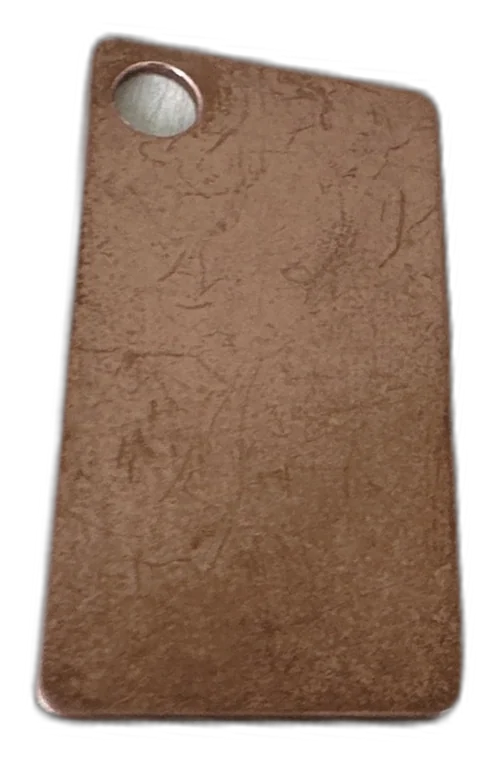
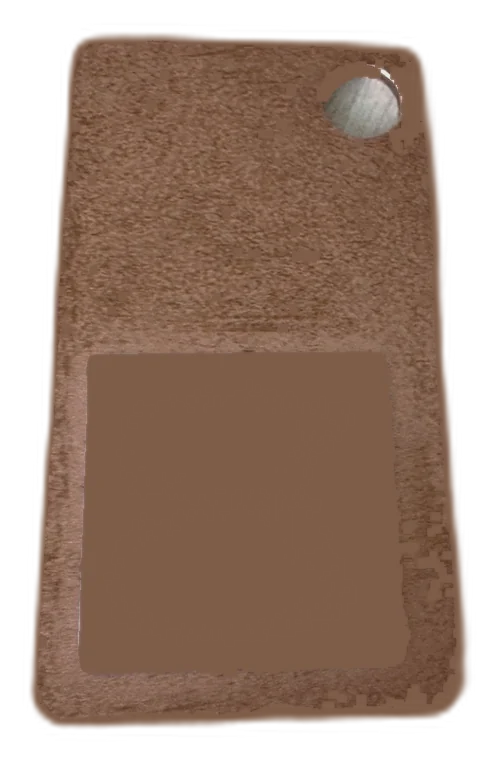
3D-Anhaenger verbessert + Showcase zurueck auf Grid mit Video & neuen Produktbildern
- 3D: Rueckseite aus Vorderseite abgeleitet (gleiche Silhouette -> nur EIN Loch),
  deutlich duenner (HALF 2.5, 6 Ebenen), saubere Kupferkante statt dunkler Foto-Kante,
  ruhigeres Schweben
- Showcase: zurueck auf das ruhigere Grid-Design
- Bunte Lifestyle-Fotos ersetzt durch neue Studio-Produktbilder (Front/Winkel/Rueckseite),
  freigestellt und auf einheitlichen Creme/Kupfer-Verlauf gesetzt
- Produktvideo passend als erste Kachel eingebunden (autoplay-Loop, Clip-Badge)
- ungenutzte Lifestyle-Bilder entfernt

diff --git a/css/style.css b/css/style.css
@@ -829,8 +829,8 @@ ul { list-style: none; }
   position: absolute; inset: 0; width: 100%; height: 100%;
   object-fit: contain; -webkit-user-drag: none; pointer-events: none;
 }
-.pendant3d__face { backface-visibility: hidden; filter: drop-shadow(0 20px 32px rgba(74,36,6,.45)); }
-.pendant3d__edge { backface-visibility: visible; filter: brightness(.34) saturate(1.5); }
+.pendant3d__face { backface-visibility: hidden; filter: drop-shadow(0 20px 32px rgba(74,36,6,.4)); }
+.pendant3d__edge { backface-visibility: visible; }
 .pendant3d__floor {
   position: absolute; bottom: 46px; left: 50%; transform: translateX(-50%);
   width: 210px; height: 34px; border-radius: 50%; z-index: 0;
@@ -842,45 +842,44 @@ ul { list-style: none; }
 }
 
 /* ════════════════════════════════════
-   IMPRESSIONEN – spielerische Polaroid-Collage
+   IMPRESSIONEN – Motion-Showcase (Grid)
    ════════════════════════════════════ */
 .showcase { margin-top: var(--space-16); }
 .showcase .page-head { margin-bottom: 0; }
-
-.collage { margin-top: var(--space-8); column-count: 4; column-gap: var(--space-5); }
-.collage__item {
-  position: relative; break-inside: avoid; margin-bottom: var(--space-6);
-  background: #fff; border: 1px solid var(--border); border-radius: var(--radius-md);
-  padding: 10px 10px 0;            /* Polaroid-Rahmen */
+.showcase__grid {
+  display: grid; grid-template-columns: repeat(4, 1fr);
+  gap: var(--space-5); margin-top: var(--space-8);
+}
+.showcase__card {
+  position: relative; border-radius: var(--radius-lg); overflow: hidden;
+  background: var(--night-800); border: 1px solid var(--border);
   box-shadow: var(--shadow-md); cursor: pointer;
   transform-style: preserve-3d; will-change: transform;
-  animation: showcaseFloat 6.5s ease-in-out infinite;
+  animation: showcaseFloat 6s ease-in-out infinite;
   transition: box-shadow var(--dur-std) var(--ease), border-color var(--dur-std) var(--ease);
 }
-/* spielerische Ruhe-Neigung + versetztes Schweben */
-.collage__item:nth-child(1) { transform: rotate(-3deg);   animation-delay: 0s;    }
-.collage__item:nth-child(2) { transform: rotate(2.5deg);  animation-delay: -1.3s; }
-.collage__item:nth-child(3) { transform: rotate(-1.5deg); animation-delay: -2.6s; }
-.collage__item:nth-child(4) { transform: rotate(3deg);    animation-delay: -3.9s; }
-.collage__item:nth-child(5) { transform: rotate(-2deg);   animation-delay: -5.2s; }
-.collage__item:hover { box-shadow: 0 26px 60px var(--glow-copper-lg); border-color: var(--copper-400); z-index: 5; }
+.showcase__card:nth-child(2) { animation-delay: -1.5s; }
+.showcase__card:nth-child(3) { animation-delay: -3s; }
+.showcase__card:nth-child(4) { animation-delay: -4.5s; }
+.showcase__card:hover { box-shadow: 0 22px 55px var(--glow-copper-lg); border-color: var(--copper-400); }
 @keyframes showcaseFloat { 0%, 100% { translate: 0 0; } 50% { translate: 0 -9px; } }
 
-.collage__media { position: relative; overflow: hidden; border-radius: calc(var(--radius-md) - 4px); aspect-ratio: 3 / 4; background: var(--night-800); }
-.collage__item--video .collage__media { aspect-ratio: 9 / 16; }
-.collage__media img, .collage__video { width: 100%; height: 100%; object-fit: cover; display: block; }
-.collage__media img { animation: showcaseKen 22s ease-in-out infinite alternate; }
+.showcase__media { position: relative; aspect-ratio: 3 / 4; overflow: hidden; }
+.showcase__media img, .showcase__media video {
+  width: 100%; height: 100%; object-fit: cover; display: block;
+}
+.showcase__media img { animation: showcaseKen 20s ease-in-out infinite alternate; }
 @keyframes showcaseKen {
   from { transform: scale(1.04) translate(0, 0); }
   to   { transform: scale(1.14) translate(2%, -3%); }
 }
 /* Cursor-folgender Kupfer-Glow */
-.collage__media::after {
-  content: ""; position: absolute; inset: 0; pointer-events: none; opacity: 0; z-index: 2;
+.showcase__media::after {
+  content: ""; position: absolute; inset: 0; pointer-events: none; opacity: 0;
   background: radial-gradient(circle at var(--mx, 50%) var(--my, 50%), var(--glow-copper-lg), transparent 55%);
   transition: opacity var(--dur-std) var(--ease);
 }
-.collage__item:hover .collage__media::after { opacity: 1; }
+.showcase__card:hover .showcase__media::after { opacity: 1; }
 
 /* Glanz-Sweep */
 .showcase__sheen {
@@ -888,45 +887,35 @@ ul { list-style: none; }
   background: linear-gradient(115deg, transparent 30%, rgba(255,255,255,.28) 48%, transparent 66%);
   transform: translateX(-130%); transition: transform .85s var(--ease);
 }
-.collage__item:hover .showcase__sheen { transform: translateX(130%); }
+.showcase__card:hover .showcase__sheen { transform: translateX(130%); }
 
-.collage__cap { padding: var(--space-3) var(--space-2) var(--space-4); text-align: center; }
-.collage__cap-title { display: block; font-family: var(--font-display); font-weight: 800; font-size: .92rem; color: var(--fg); }
-.collage__cap-sub { font-size: .74rem; color: var(--fg-muted); }
-
-/* Live-Badge (Video) */
-.collage__badge {
+/* Video-Badge */
+.showcase__badge {
   position: absolute; top: 10px; left: 10px; z-index: 3;
   display: inline-flex; align-items: center; gap: 6px;
   background: rgba(14,8,6,.62); color: #fff; font-size: .68rem; font-weight: 700;
   letter-spacing: .1em; text-transform: uppercase; padding: 4px 10px;
   border-radius: var(--radius-pill); backdrop-filter: blur(4px);
 }
-.collage__dot { width: 7px; height: 7px; border-radius: 50%; background: var(--ember); animation: collagePulse 1.6s infinite; }
+.showcase__dot { width: 7px; height: 7px; border-radius: 50%; background: var(--ember); animation: collagePulse 1.6s infinite; }
 @keyframes collagePulse {
   0%   { box-shadow: 0 0 0 0 rgba(225,90,51,.6); }
   70%  { box-shadow: 0 0 0 8px rgba(225,90,51,0); }
   100% { box-shadow: 0 0 0 0 rgba(225,90,51,0); }
 }
 
-/* Washi-Tape */
-.collage__tape {
-  position: absolute; top: -9px; left: 50%; z-index: 4;
-  transform: translateX(-50%) rotate(-4deg);
-  width: 88px; height: 24px;
-  background: repeating-linear-gradient(135deg, rgba(224,116,26,.5) 0 8px, rgba(240,146,107,.42) 8px 16px);
-  border: 1px solid rgba(255,255,255,.22); box-shadow: var(--shadow-sm);
+.showcase__cap {
+  position: absolute; left: 0; right: 0; bottom: 0; z-index: 2;
+  display: flex; flex-direction: column; gap: 2px;
+  padding: var(--space-8) var(--space-4) var(--space-4);
+  background: linear-gradient(to top, rgba(14,8,6,.88), rgba(14,8,6,.35) 60%, transparent);
+  color: #fff;
+  transform: translateY(10px); opacity: .9;
+  transition: transform var(--dur-std) var(--ease), opacity var(--dur-std) var(--ease);
 }
-
-/* Sticker-Pille */
-.collage__sticker {
-  position: absolute; right: -6px; bottom: 64px; z-index: 4;
-  transform: rotate(-6deg);
-  background: var(--primary); color: #fff; font-weight: 800; font-size: .72rem;
-  letter-spacing: .03em; padding: 5px 12px; border-radius: var(--radius-pill);
-  box-shadow: var(--shadow-md);
-}
-.collage__sticker--alt { background: var(--ink-800); color: var(--copper-200); }
+.showcase__card:hover .showcase__cap { transform: translateY(0); opacity: 1; }
+.showcase__cap-title { font-family: var(--font-display); font-weight: 800; font-size: 1rem; }
+.showcase__cap-sub { font-size: .8rem; color: var(--copper-200); }
 
 /* ════════════════════════════════════
    GALERIE – Flip Cards mit Lucide
@@ -1474,7 +1463,7 @@ ul { list-style: none; }
 
   .produkt-grid { grid-template-columns: 1fr; gap: var(--space-8); }
   .chip-spec__grid { grid-template-columns: 1fr 1fr; }
-  .collage { column-count: 3; }
+  .showcase__grid { grid-template-columns: 1fr 1fr; }
 
   .galerie-grid { grid-template-columns: 1fr 1fr; }
   .socials-grid { grid-template-columns: 1fr; max-width: 380px; margin: 0 auto; }
@@ -1494,8 +1483,7 @@ ul { list-style: none; }
   .orgA__dept:nth-child(n) { margin-bottom: 0; }
   .orgA__members { grid-template-columns: 1fr; }
 
-  .collage { column-count: 2; column-gap: var(--space-4); }
-  .collage__sticker { bottom: 52px; }
+  .showcase__grid { gap: var(--space-4); }
 
   .pendant3d { min-height: 420px; }
   .pendant3d__spin { width: 248px; height: 380px; }

diff --git a/index.html b/index.html
@@ -340,72 +340,56 @@
           </div>
         </div>
 
-        <!-- Impressionen – spielerische Collage -->
+        <!-- Impressionen – Motion-Showcase -->
         <div class="showcase">
           <div class="page-head">
             <p class="overline">Impressionen</p>
             <h2>Dein Anhänger im echten Leben.</h2>
-            <p class="page-head__sub">Echtes Kupfer, echte Momente. Tipp rein, schau zu, dreh durch.</p>
+            <p class="page-head__sub">Echtes Kupfer, echte Momente. Beweg die Maus über die Bilder.</p>
           </div>
-          <div class="collage">
-            <figure class="collage__item collage__item--video reveal" data-tilt>
-              <span class="collage__tape" aria-hidden="true"></span>
-              <div class="collage__media">
-                <video class="collage__video" autoplay muted loop playsinline preload="metadata"
+          <div class="showcase__grid">
+            <figure class="showcase__card reveal" data-tilt>
+              <div class="showcase__media">
+                <video class="showcase__video" autoplay muted loop playsinline preload="metadata"
                        poster="assets/produkt-clip-poster.jpg">
                   <source src="assets/produkt-clip.mp4" type="video/mp4" />
                 </video>
-                <span class="collage__badge"><span class="collage__dot"></span> Clip</span>
+                <span class="showcase__badge"><span class="showcase__dot"></span> Clip</span>
                 <span class="showcase__sheen" aria-hidden="true"></span>
               </div>
-              <figcaption class="collage__cap">
-                <span class="collage__cap-title">Frisch ausgepackt</span>
-                <span class="collage__cap-sub">Anhänger &amp; Beutel in Bewegung</span>
+              <figcaption class="showcase__cap">
+                <span class="showcase__cap-title">Frisch ausgepackt</span>
+                <span class="showcase__cap-sub">Anhänger &amp; Beutel in Bewegung</span>
               </figcaption>
             </figure>
-
-            <figure class="collage__item reveal" data-tilt>
-              <div class="collage__media">
-                <img src="assets/produkt-pouch.jpg" alt="Kupfer-Anhänger mit NFCunnect-Stoffbeutel" loading="lazy" />
+            <figure class="showcase__card reveal" data-tilt>
+              <div class="showcase__media">
+                <img src="assets/show-front.webp" alt="NFCunnect Kupfer-Anhänger, Vorderseite mit NFC-Chip" loading="lazy" />
                 <span class="showcase__sheen" aria-hidden="true"></span>
               </div>
-              <span class="collage__sticker">Geschenkfertig</span>
-              <figcaption class="collage__cap">
-                <span class="collage__cap-title">Bereit zum Verschenken</span>
+              <figcaption class="showcase__cap">
+                <span class="showcase__cap-title">Dein smarter Begleiter</span>
+                <span class="showcase__cap-sub">Vorderseite mit NFC-Chip</span>
               </figcaption>
             </figure>
-
-            <figure class="collage__item reveal" data-tilt>
-              <span class="collage__tape" aria-hidden="true"></span>
-              <div class="collage__media">
-                <img src="assets/produkt-plant.jpg" alt="Kupfer-Anhänger an einer Pflanze" loading="lazy" />
+            <figure class="showcase__card reveal" data-tilt>
+              <div class="showcase__media">
+                <img src="assets/show-angle.webp" alt="Kupfer-Anhänger im Dreiviertel-Winkel" loading="lazy" />
                 <span class="showcase__sheen" aria-hidden="true"></span>
               </div>
-              <figcaption class="collage__cap">
-                <span class="collage__cap-title">Immer dabei</span>
+              <figcaption class="showcase__cap">
+                <span class="showcase__cap-title">Echtes Kupfer</span>
+                <span class="showcase__cap-sub">Von jeder Seite ein Hingucker</span>
               </figcaption>
             </figure>
-
-            <figure class="collage__item reveal" data-tilt>
-              <div class="collage__media">
-                <img src="assets/produkt-plant2.jpg" alt="Kupfer-Anhänger an einem Pflanzenstiel" loading="lazy" />
+            <figure class="showcase__card reveal" data-tilt>
+              <div class="showcase__media">
+                <img src="assets/show-back.webp" alt="Kupfer-Anhänger, Rückseite" loading="lazy" />
                 <span class="showcase__sheen" aria-hidden="true"></span>
               </div>
-              <span class="collage__sticker collage__sticker--alt">Nachhaltig</span>
-              <figcaption class="collage__cap">
-                <span class="collage__cap-title">Natürlich vernetzt</span>
-              </figcaption>
-            </figure>
-
-            <figure class="collage__item reveal" data-tilt>
-              <span class="collage__tape" aria-hidden="true"></span>
-              <div class="collage__media">
-                <img src="assets/produkt-flatlay.jpg" alt="Kupfer-Anhänger liegend auf dem Stoffbeutel" loading="lazy" />
-                <span class="showcase__sheen" aria-hidden="true"></span>
-              </div>
-              <span class="collage__sticker">Handmade</span>
-              <figcaption class="collage__cap">
-                <span class="collage__cap-title">Liebe zum Detail</span>
+              <figcaption class="showcase__cap">
+                <span class="showcase__cap-title">Pur &amp; hochwertig</span>
+                <span class="showcase__cap-sub">Rückseite aus reinem Kupfer</span>
               </figcaption>
             </figure>
           </div>

diff --git a/js/main.js b/js/main.js
@@ -245,8 +245,9 @@ function initPendant3d() {
 
   const FRONT = 'assets/pendant-front.webp';
   const BACK  = 'assets/pendant-back.webp';
-  const HALF  = 5;   // halbe Dicke in px
-  const LAYERS = 10; // Zwischenebenen für die Kante (Extrusion)
+  const EDGE  = 'assets/pendant-edge.webp';  // saubere Kupferkante
+  const HALF  = 2.5; // halbe Dicke in px (dünn)
+  const LAYERS = 6;  // Zwischenebenen für die Kante (Extrusion)
 
   const spin = document.createElement('div');
   spin.className = 'pendant3d__spin';
@@ -256,7 +257,7 @@ function initPendant3d() {
     const z = -HALF + (i / LAYERS) * (HALF * 2);
     const edge = document.createElement('img');
     edge.className = 'pendant3d__edge';
-    edge.src = FRONT;
+    edge.src = EDGE;
     edge.alt = '';
     edge.setAttribute('aria-hidden', 'true');
     edge.style.transform = `translateZ(${z.toFixed(2)}px)`;
@@ -283,8 +284,8 @@ function initPendant3d() {
 
   function render() {
     t += 0.016;
-    const bob = reduce ? 0 : Math.sin(t * 1.1) * 7;        // sanftes Schweben
-    const tilt = reduce ? -8 : -8 + Math.sin(t * 0.7) * 3; // leichtes Kippen
+    const bob = reduce ? 0 : Math.sin(t * 0.9) * 4;        // dezentes Schweben
+    const tilt = reduce ? -6 : -6 + Math.sin(t * 0.6) * 2; // leichtes Kippen
     spin.style.transform = `translateY(${bob}px) rotateX(${tilt}deg) rotateY(${rotY}deg)`;
     if (auto && !dragging) rotY += 0.3;
     requestAnimationFrame(render);